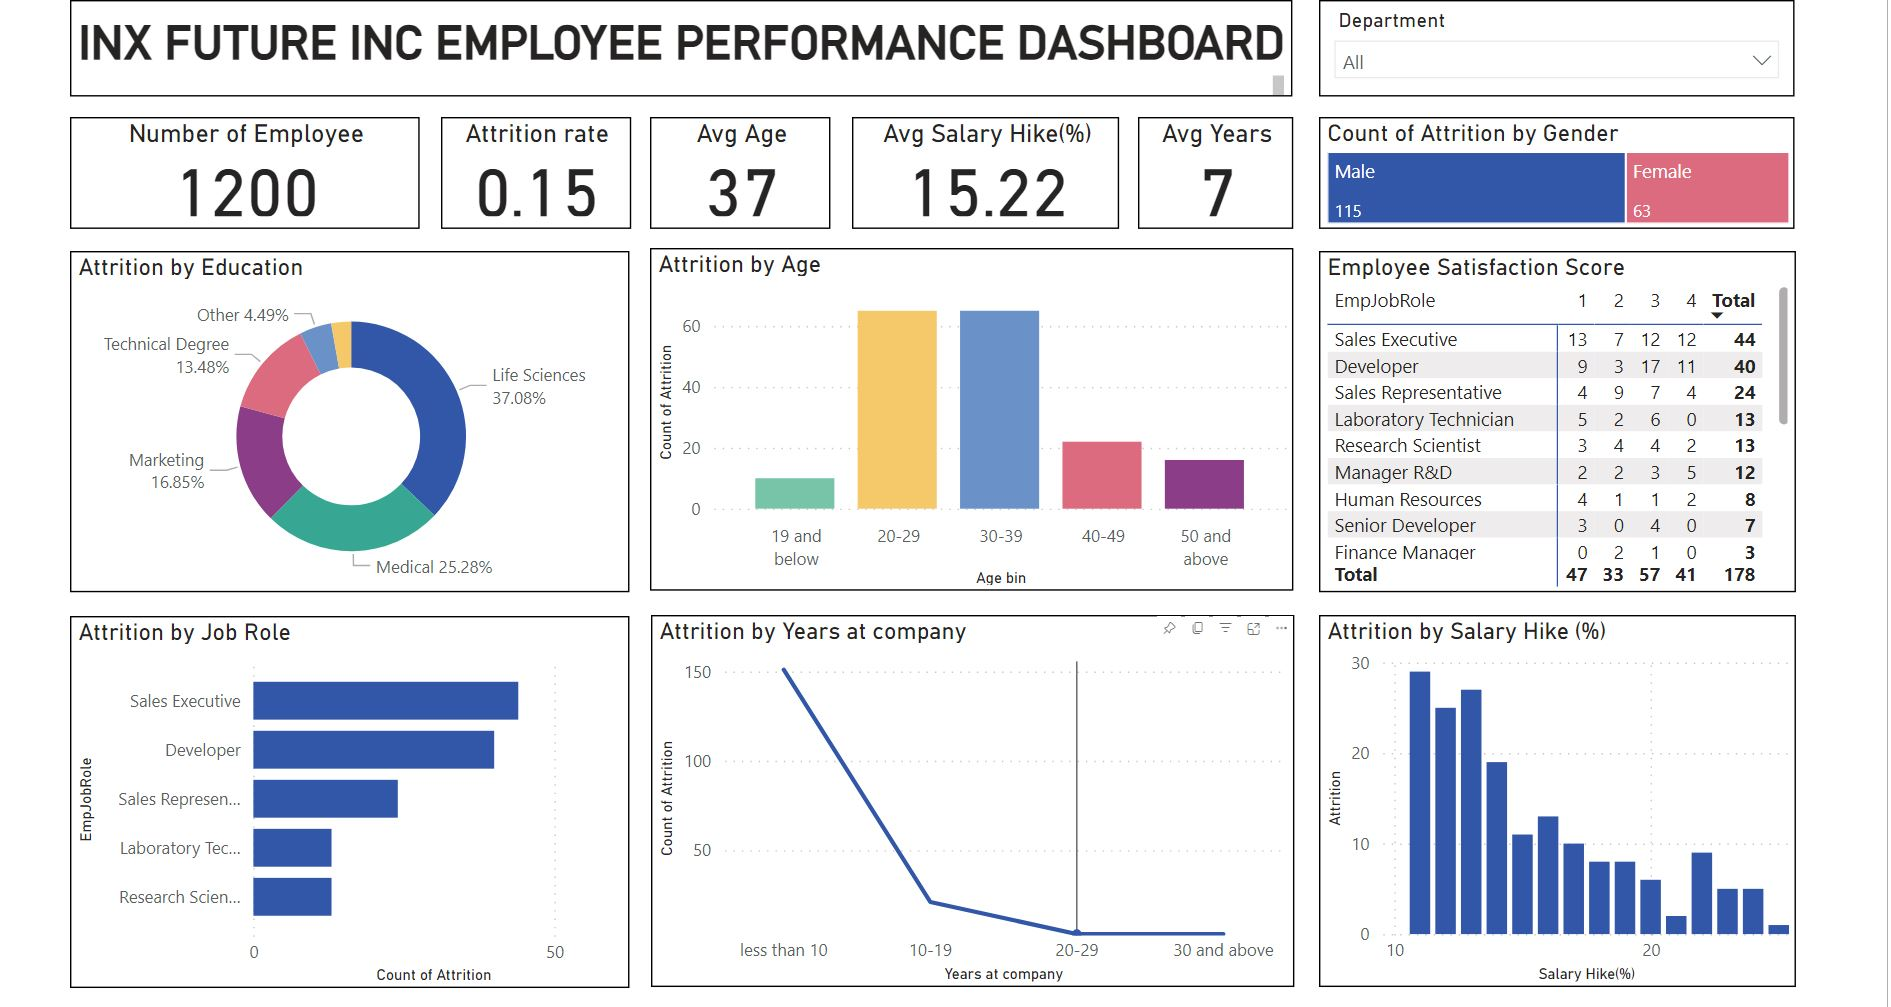
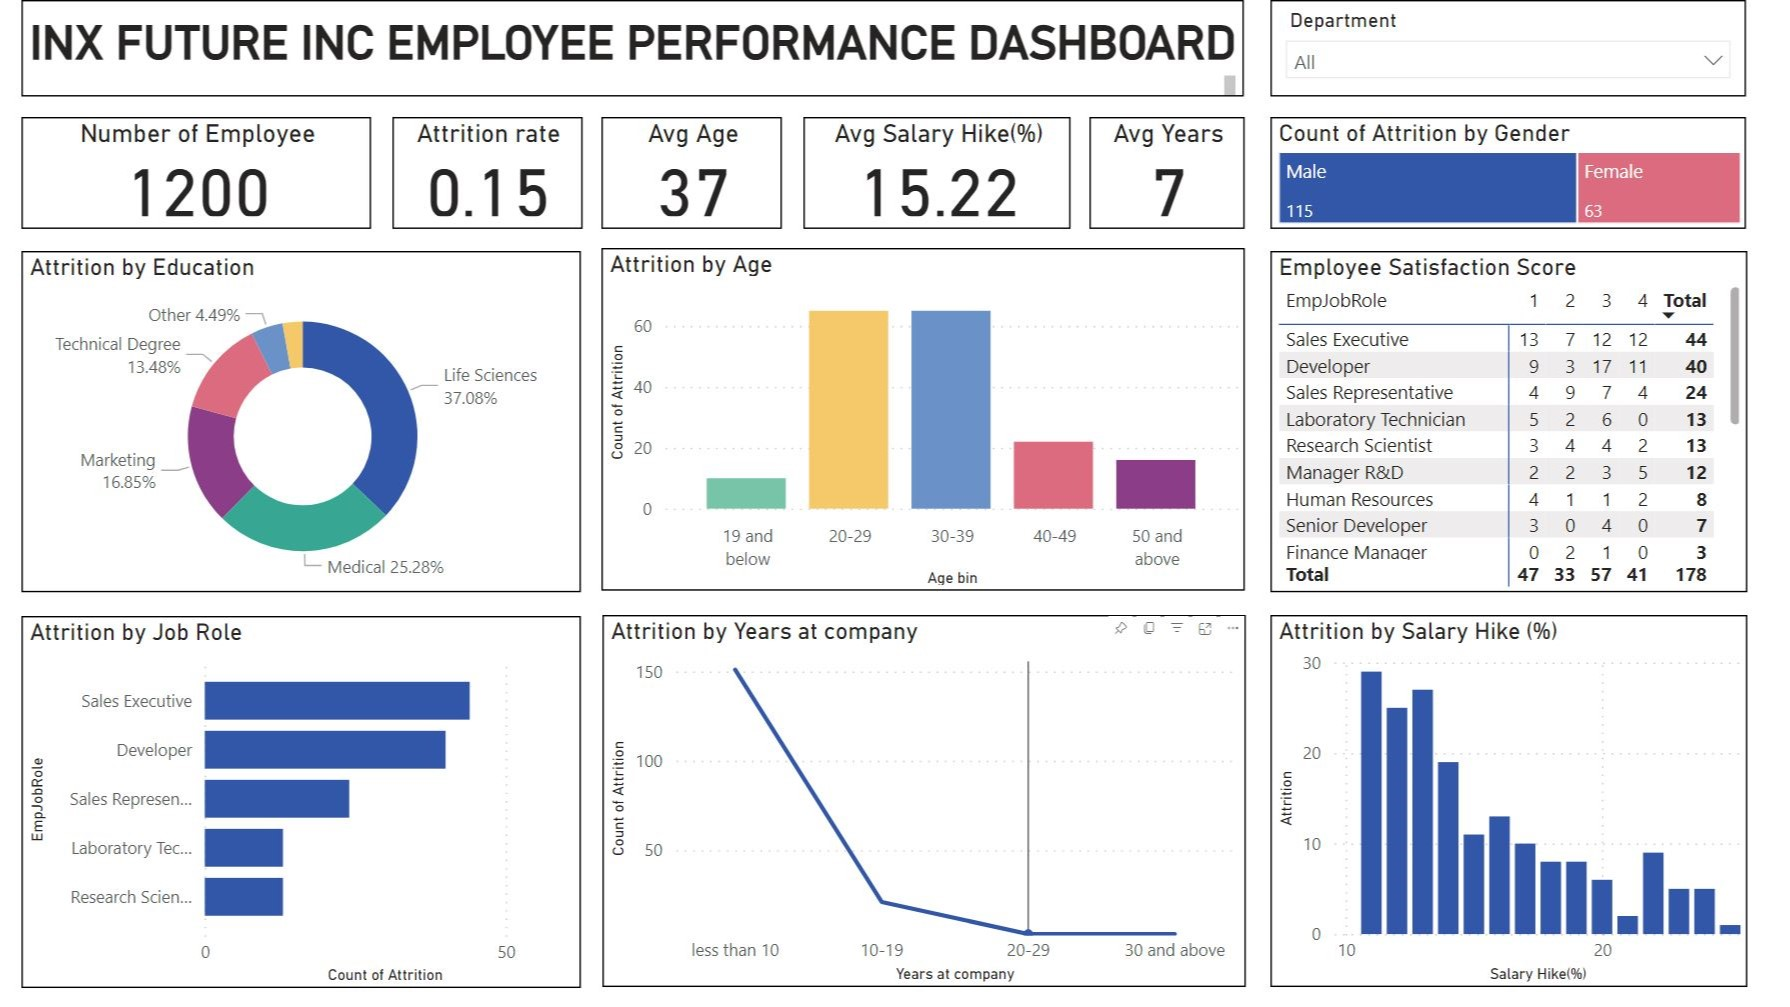
update 24/2

diff --git a/project.html b/project.html
@@ -102,6 +102,16 @@
                     <h2 class="work__title">Pizza Sales Dashboard</h2>
                     <span class="work__subtitle">Dashboard</span>
                 </article>
+
+                <article class="work__link">
+                    <a href="https://github.com/harishh29/PizzaSaleDashboard?tab=readme-ov-file" target="_blank" class="work__link">
+                        <img src="img/project/employeedashboard.JPG" alt="" class="work__img">
+                        <i class="ri-arrow-right-circle-fill work__icon"></i>
+                    </a>
+
+                    <h2 class="work__title">Employee Performance Dashboard</h2>
+                    <span class="work__subtitle">Dashboard</span>
+                </article>
             </div>
             
          </section>

diff --git a/style.css b/style.css
@@ -845,6 +845,8 @@ body.dark-theme{
   .about__skills-content{
     grid-template-columns: repeat(4, max-content);
   }
+
+  
 }
 
 /* For medium devices */
@@ -881,6 +883,7 @@ body.dark-theme{
 }
 
 @media screen and (min-width: 768px){
+  
   .aspiration__container{
     grid-template-columns: repeat(2, 320px);
   }
@@ -1000,6 +1003,7 @@ body.dark-theme{
   .home__button{
     justify-self: flex-start;
   }
+  
 
   .aspiration__container{
     grid-template-columns: repeat(3, 345px);
@@ -1063,6 +1067,7 @@ body.dark-theme{
     right: 3rem;
   }
 
+  
   .about__container{
     grid-template-columns: 500px 440px;
     align-items: center;

diff --git a/index.html b/index.html
@@ -104,7 +104,7 @@
 
             <div class="about__container about__page container grid">
                 <div class="about__perfil perfil">
-                    <div class="perfil__content">
+                    <div class="perfil__content zoom">
                         <img src="img/dp-body.jpg" alt="" class="perfil__image">
                     </div>
                 </div>
